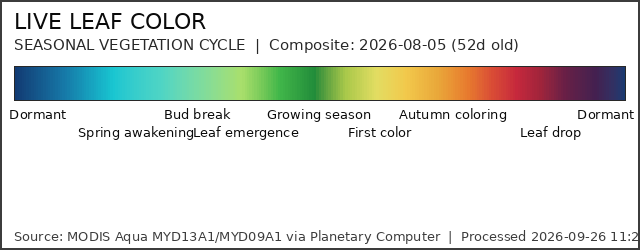
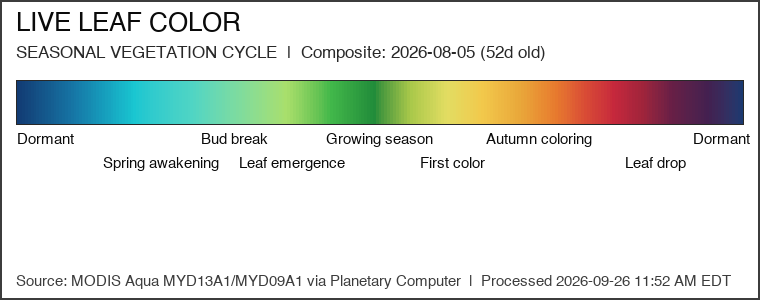
Leaf: large legible key image + fix skip-gate version drift
Key grows 640x250 to 760x300 with staggered readable phase labels.
Skip hint was stuck at v6 while builds stamp v8 (rebuilt every run);
aligned.

diff --git a/scripts/build_leaf_color.py b/scripts/build_leaf_color.py
@@ -189,7 +189,7 @@ def run():
     sig = hashlib.sha256(
         ("|".join(sorted(i.id for i in list(vi.values()) + list(rf.values())))
          ).encode()).hexdigest()
-    source_id_hint = f"leaf-v6-{sig[:12]}"
+    source_id_hint = f"leaf-v8-{sig[:12]}"
     prev = read_state(PRODUCT)
     if prev.get("source_id") == source_id_hint \
             and prev.get("render_version") == RENDER_VERSION \
@@ -501,16 +501,16 @@ def _build(bounds, W, H, vi, rf, sig):
         "landcover": ("USGS NLCD 2021 + NRCan 2020 Land Cover of Canada "
                       "(NALCMS inputs) mosaic -> assets/leaf_landcover.png"),
         "water_mask": "assets/great_lakes_watermask.png (shared)",
-        "algorithm": "leaf_phenology v7 (trajectory + baseline + class + "
+        "algorithm": "leaf_phenology v8 (trajectory + baseline + class + "
                      "spectral gating; 19-anchor OKLab circular gradient; "
                      "observed-only rendering, transparent no-data)",
     }
-    # v7 = observed-only rendering (transparent no-data) + overlap-band
+    # v8 = large legible key image + observed-only rendering (transparent no-data) + overlap-band
     # seam blend + observation-only history + full-coverage mosaic rule
     # (all 3 tiles required) + NaN-aware history means.
     # One-time version rotation to deploy the fixed rendering; afterwards
     # the id tracks source composites only.
-    source_id = f"leaf-v7-{sig[:12]}"
+    source_id = f"leaf-v8-{sig[:12]}"
     meta["source_id"] = source_id
     meta["source_version"] = source_token(source_id)
     meta["stats"] = {
@@ -519,7 +519,7 @@ def _build(bounds, W, H, vi, rf, sig):
     }
     write_metadata(stage_prod, meta)
 
-    # v7 = observed-only rendering (transparent no-data) + overlap-band
+    # v8 = large legible key image + observed-only rendering (transparent no-data) + overlap-band
     # seam blend + observation-only history + full-coverage mosaic rule
     # (all 3 tiles required) + NaN-aware history means.
     # One-time version rotation to deploy the fixed rendering; afterwards

diff --git a/scripts/leaf_phenology.py b/scripts/leaf_phenology.py
@@ -136,17 +136,21 @@ LEAF_LEGEND_PHASES = [
 
 
 def draw_leaf_legend(path, title, subtitle, source_line, lut):
-    """Continuous phenology legend (bar + phase labels, two rows)."""
+    """Large legible phenology key (bar + phase labels, two clear rows).
+
+    Sized for the Google Earth info panel: big bar, staggered labels with
+    room to breathe so nothing overlaps.
+    """
     from PIL import Image, ImageDraw
     from geospatial_utils import _legend_font
-    W, H = 640, 250
+    W, H = 760, 300
     img = Image.new("RGBA", (W, H), (255, 255, 255, 235))
     d = ImageDraw.Draw(img)
-    f_title, f_body, f_small = _legend_font(22), _legend_font(15), _legend_font(13)
+    f_title, f_body, f_small = _legend_font(26), _legend_font(17), _legend_font(15)
     d.rectangle([0, 0, W - 1, H - 1], outline=(60, 60, 60), width=2)
-    d.text((14, 8), title, font=f_title, fill=(10, 10, 10))
-    d.text((14, 36), subtitle, font=f_body, fill=(40, 40, 40))
-    bx, by, bw, bh = 14, 66, W - 28, 34
+    d.text((16, 10), title, font=f_title, fill=(10, 10, 10))
+    d.text((16, 44), subtitle, font=f_body, fill=(40, 40, 40))
+    bx, by, bw, bh = 16, 80, W - 32, 44
     for i in range(bw):
         c = lut[int(i / (bw - 1) * 255)]
         d.line([(bx + i, by), (bx + i, by + bh)], fill=tuple(c) + (255,))
@@ -155,9 +159,9 @@ def draw_leaf_legend(path, title, subtitle, source_line, lut):
         for phase, label in items:
             x = bx + int(phase * (bw - 1))
             tw = d.textlength(label, font=f_small)
-            d.text((min(max(x - tw / 2, 2), W - tw - 2), by + bh + 6 + row * 18),
+            d.text((min(max(x - tw / 2, 2), W - tw - 2), by + bh + 8 + row * 24),
                    label, font=f_small, fill=(10, 10, 10))
-    d.text((14, H - 22), source_line, font=f_small, fill=(60, 60, 60))
+    d.text((16, H - 26), source_line, font=f_small, fill=(60, 60, 60))
     import os
     os.makedirs(os.path.dirname(path), exist_ok=True)
     img.save(path)
